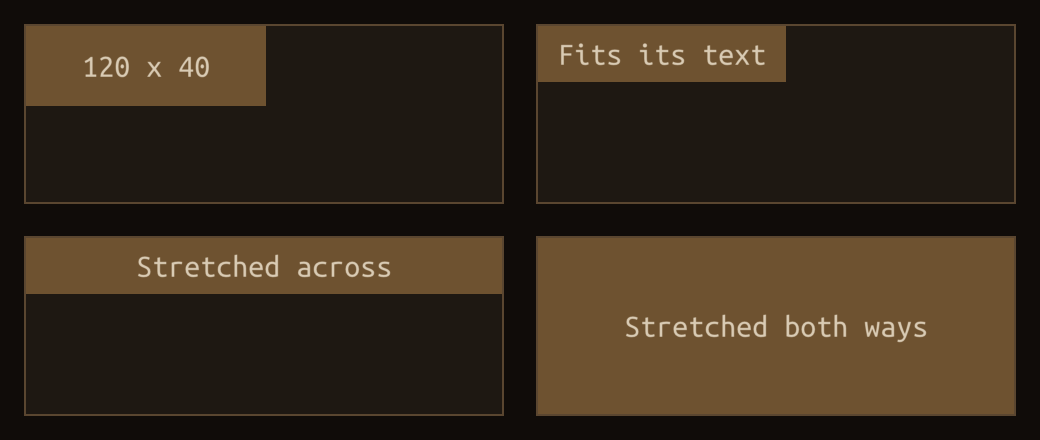
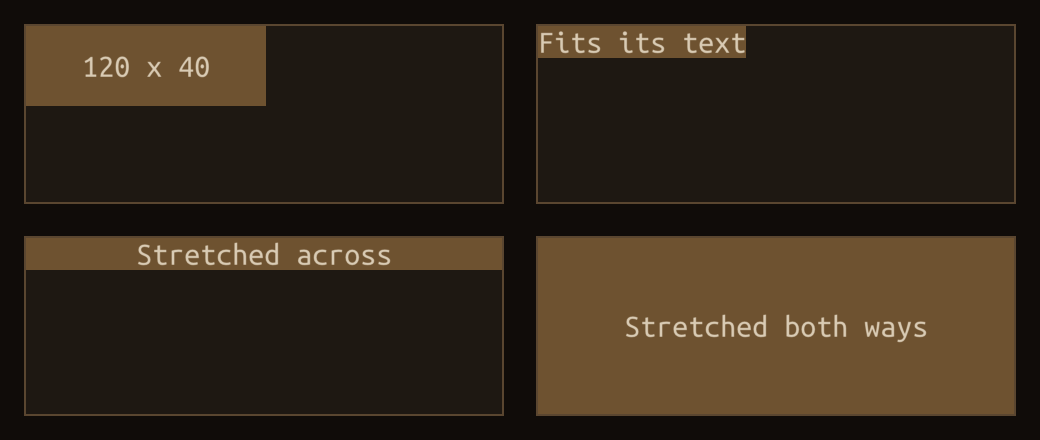
Show a fitted label hugging its text in the sizes screenshot
The sample's labels have no text margin now, so the fitted one is exactly as
large as its text and the one stretched across is as high as its text.

Changed region(s): [[0.0, 0.5614, 0.4923, 0.6795], [0.4923, 0.0591, 0.7692, 0.2068]]

diff --git a/docs/ui.md b/docs/ui.md
@@ -223,11 +223,10 @@ Give the parent a `MaxWidth` to make it wrap.
 </figure>
 
 ```csharp
-// one look for every label: centred text on a brown fill
+// one look for every label: centred text on a brown fill, no text margin, so a fitted label hugs its text
 Label Swatch(string text) => new()
 {
     Text = text,
-    TextMargin = (10, 6, 10, 6),
     TextAlignment = TextAlignment.Center,
     VerticalTextAlignment = VerticalTextAlignment.Center,
     BackgroundColor = new Color(110, 82, 48)
